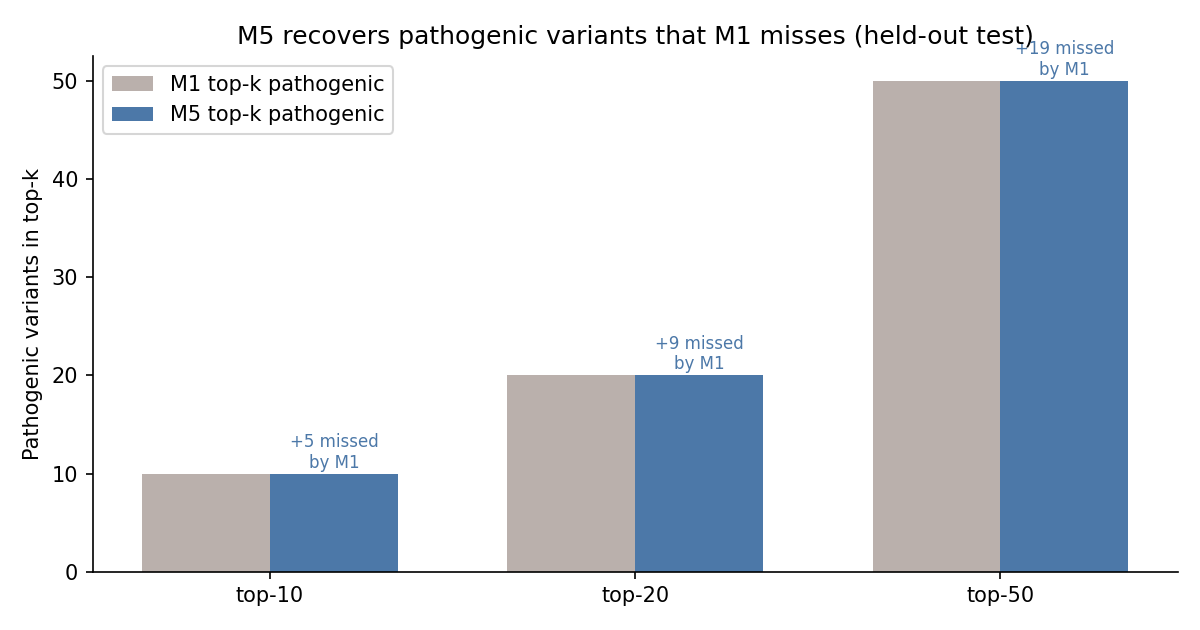
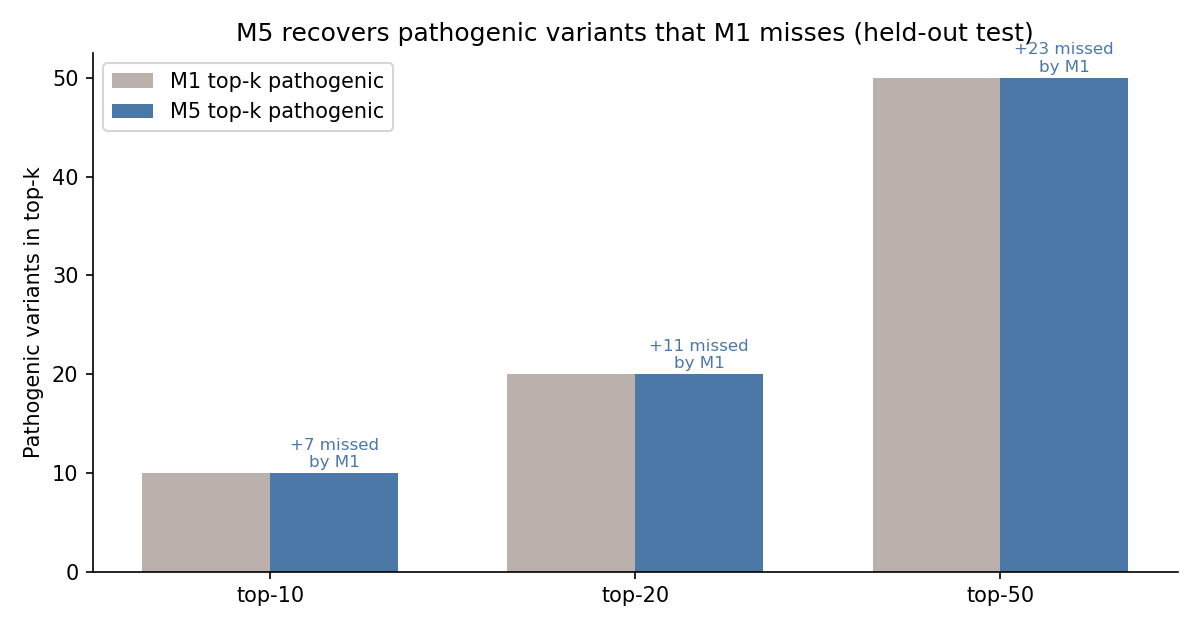
Add data-grounded tests; regenerate figures from the refit

diff --git a/tests/test_shipped_evidence.py b/tests/test_shipped_evidence.py
@@ -1,0 +1,199 @@
+"""Data-grounded tests over the shipped evidence files.
+
+The other test modules exercise the package on toy fixtures. These tests
+read the shipped artifacts (feature matrix, splits, benchmark, statistics,
+test-access log) and check the claims the manuscript and docs make about
+them, so the suite proves something about the science, not only the code.
+
+Choices, stated:
+- CADD counts and split sizes are recomputed from the shipped files on
+  every run (gene->split mapping is read from results/splits.json, never
+  hardcoded); the expected literals are the values verified from those
+  files on 2026-11-09.
+- The benchmark check is a subsample refit, not a full refit: a full refit
+  under the locked protocol (LogisticRegression, C=1.0,
+  class_weight="balanced", max_iter=5000, 35,921 train rows) is too slow
+  for pytest. The subsample refit (5,000 train rows, max_iter=1000) checks
+  that benchmark.json is reproducible in kind: each refit AUPRC lands
+  within 0.02 of the shipped value, and the tier ordering matches the
+  shipped benchmark (on the 2026-11-09 no-CADD refit, M4 above M1).
+- The statistics checks target the 2026-11-09 refit structure written by
+  scripts/19_refit_statistics.py: live diffs in `auprc_diffs` and
+  `tie_corrected_refit_no_cadd`; the dead pre-rebuild +0.0509 gain may
+  appear only under `auprc_diffs_superseded_pre_rebuild`, labelled
+  superseded.
+- The test-access log is the original record: 13 timestamped entries
+  (1 on 2026-10-06, 8 on 2026-10-07, 4 on 2026-11-08), matching the
+  counts in paper/manuscript.md Section 2.4. It was untracked until
+  2026-11-09 because .gitignore carried a bare *.log rule; the negation
+  !results/test_access.log now keeps it in the repository.
+"""
+
+import json
+import re
+import warnings
+from pathlib import Path
+
+import pandas as pd
+import pytest
+
+REPO = Path(__file__).resolve().parents[1]
+PROCESSED = REPO / "data" / "processed"
+RESULTS = REPO / "results"
+
+
+@pytest.fixture(scope="module")
+def matrix():
+    return pd.read_csv(PROCESSED / "feature_matrix.tsv.gz", sep="\t")
+
+
+@pytest.fixture(scope="module")
+def splits():
+    return json.loads((RESULTS / "splits.json").read_text())
+
+
+@pytest.fixture(scope="module")
+def gene_split(splits):
+    return {a["gene"]: a["split"] for a in splits["assignments"]}
+
+
+@pytest.fixture(scope="module")
+def matrix_by_split(matrix, gene_split):
+    df = matrix.copy()
+    df["split"] = df["gene_symbol"].map(gene_split)
+    return df
+
+
+def test_feature_matrix_shape_and_no_nans(matrix):
+    assert matrix.shape == (60521, 29)
+    assert int(matrix.isna().sum().sum()) == 0
+
+
+def test_splits_have_zero_gene_overlap(splits, matrix_by_split):
+    by_split = {}
+    for a in splits["assignments"]:
+        by_split.setdefault(a["split"], set()).add(a["gene"])
+    assert {k: len(v) for k, v in by_split.items()} == {
+        "train": 61,
+        "validation": 17,
+        "test": 24,
+    }
+    names = sorted(by_split)
+    for i, a in enumerate(names):
+        for b in names[i + 1 :]:
+            assert by_split[a].isdisjoint(by_split[b]), f"{a} overlaps {b}"
+    # The matrix's own gene sets agree with splits.json.
+    for split, genes in by_split.items():
+        assert (
+            set(matrix_by_split.loc[matrix_by_split["split"] == split, "gene_symbol"])
+            == genes
+        )
+    counts = matrix_by_split.groupby("split").size().to_dict()
+    assert counts == {"train": 35921, "validation": 10200, "test": 14400}
+
+
+def test_cadd_scored_counts_by_split(matrix_by_split):
+    scored = matrix_by_split[matrix_by_split["cadd_missing"] == 0]
+    per_split = scored.groupby("split").size().to_dict()
+    assert per_split.get("train", 0) == 0
+    assert per_split["validation"] == 7774
+    assert per_split["test"] == 11240
+    assert len(scored) == 19014
+
+
+def test_train_rows_all_carry_cadd_sentinel(matrix_by_split):
+    train = matrix_by_split[matrix_by_split["split"] == "train"]
+    assert len(train) == 35921
+    assert (train["cadd_phred"] == -1.0).all()
+    assert (train["cadd_missing"] == 1).all()
+
+
+def test_fitted_tiers_do_not_use_cadd():
+    tiers = json.loads((PROCESSED / "feature_tiers.json").read_text())["tiers"]
+    for tier, cols in tiers.items():
+        assert "cadd_phred" not in cols, f"{tier} still fits cadd_phred"
+        assert "cadd_missing" not in cols, f"{tier} still fits cadd_missing"
+
+
+def test_benchmark_json_consistent_with_statistics():
+    bench = json.loads((RESULTS / "benchmark.json").read_text())
+    stats = json.loads((RESULTS / "statistics.json").read_text())
+    assert bench["test_n"] == 14400
+    assert bench["test_n_positive"] == 7200
+    step = stats["tie_corrected_refit_no_cadd"]["step_auprc"]
+    auprcs = {}
+    for tier in ["M1", "M2", "M3", "M4", "M5"]:
+        auprcs[tier] = bench["tiers"][tier]["test"]["auprc"]
+        assert auprcs[tier] == pytest.approx(step[tier], abs=0.001)
+    # On the 2026-11-09 no-CADD refit, M4 has the highest step AUPRC.
+    assert max(auprcs, key=auprcs.get) == "M4"
+    assert auprcs["M4"] > auprcs["M1"]
+
+
+def test_benchmark_tiers_match_subsample_refit(matrix_by_split):
+    from sklearn.linear_model import LogisticRegression
+    from sklearn.metrics import average_precision_score
+
+    tiers = json.loads((PROCESSED / "feature_tiers.json").read_text())["tiers"]
+    bench = json.loads((RESULTS / "benchmark.json").read_text())
+    train = matrix_by_split[matrix_by_split["split"] == "train"].sample(
+        n=5000, random_state=20261006
+    )
+    test = matrix_by_split[matrix_by_split["split"] == "test"]
+    refit = {}
+    for tier in ["M1", "M4"]:
+        cols = tiers[tier]
+        clf = LogisticRegression(C=1.0, max_iter=1000, class_weight="balanced")
+        with warnings.catch_warnings():
+            warnings.simplefilter("ignore")
+            clf.fit(train[cols], train["label"])
+        proba = clf.predict_proba(test[cols])[:, 1]
+        refit[tier] = average_precision_score(test["label"], proba)
+        shipped = bench["tiers"][tier]["test"]["auprc"]
+        assert refit[tier] == pytest.approx(shipped, abs=0.02), (
+            f"{tier}: subsample refit AUPRC {refit[tier]:.4f} is more than "
+            f"0.02 from shipped benchmark.json value {shipped:.4f}"
+        )
+    # The refit ordering matches the shipped benchmark: M4 above M1.
+    assert refit["M4"] > refit["M1"]
+
+
+def test_statistics_has_no_live_significant_0509():
+    stats = json.loads((RESULTS / "statistics.json").read_text())
+    live = stats["auprc_diffs"]["M4_minus_M1"]
+    refit = stats["tie_corrected_refit_no_cadd"]["diffs"]["M4_minus_M1"]
+    # The live top-level diff is the 2026-11-09 refit value, not the dead one.
+    assert live["mean"] == pytest.approx(refit["mean"], abs=0.0005)
+    # The dead pre-rebuild +0.0509 survives only under the superseded key,
+    # explicitly labelled as such.
+    sup = stats["auprc_diffs_superseded_pre_rebuild"]
+    assert "SUPERSEDED" in sup["note"]
+    assert "DEAD" in sup["note"]
+    old = sup["values"]["M4_minus_M1"]
+    assert old["mean"] == pytest.approx(0.0509, abs=0.0005)
+
+
+def test_statistics_gene_clustered_m2_verdict_present():
+    stats = json.loads((RESULTS / "statistics.json").read_text())
+    clustered = stats["gene_clustered_cis"]
+    assert clustered["n_clusters"] == 24
+    m2 = clustered["diffs"]["M2_minus_M1"]
+    assert len(m2["cluster_ci95"]) == 2
+    assert "M2" in clustered["m2_minus_m1_verdict"]
+
+
+def test_access_log_matches_manuscript_record():
+    lines = [
+        line
+        for line in (RESULTS / "test_access.log").read_text().splitlines()
+        if line.strip()
+    ]
+    assert len(lines) == 13
+    dates = [re.match(r"\d{4}-\d{2}-\d{2}", line).group(0) for line in lines]
+    assert dates.count("2026-10-06") == 1
+    assert dates.count("2026-10-07") == 8
+    assert dates.count("2026-11-08") == 4
+    joined = "\n".join(lines)
+    assert joined.count("benchmark run") == 3
+    assert joined.count("baseline enrichment") == 9
+    assert joined.count("script-18") == 1

diff --git a/scripts/16_make_missing_figures.py b/scripts/16_make_missing_figures.py
@@ -5,13 +5,12 @@ Generates figures/01_architecture.png, 02_workflow.png, 03_isoform_usage.png,
 08_case_study.png.
 
 - 01_architecture and 02_workflow are schematics drawn from the manuscript's
-  methods (§4) and labeled as such; all counts inside them come from real
-  artifacts (data/processed/feature_tiers.json, results/splits.json,
-  data/DATA_PROVENANCE.md).
+  methods (§2) and labeled as such; all counts inside them come from
+  results and data files (data/processed/feature_tiers.json,
+  results/splits.json, data/DATA_PROVENANCE.md).
 - 03_isoform_usage and 08_case_study are data-driven, from
   data/processed/variant_isoform_effects.tsv.gz,
   data/processed/isoform_usage.tsv.gz, and results/counterfactual.json.
-  Nothing is hand-drawn from memory.
 """
 
 from __future__ import annotations
@@ -74,7 +73,8 @@ def _arrow(ax, x0, y0, x1, y1, color="0.35"):
 def fig_architecture():
     tiers = json.loads((PROC / "feature_tiers.json").read_text())["tiers"]
     counts = {m: len(tiers[m]) for m in ["M1", "M2", "M3", "M4", "M5"]}
-    assert counts == {"M1": 9, "M2": 11, "M3": 14, "M4": 23, "M5": 26}, counts
+    # Counts after the 2026-11-09 refit (CADD columns removed from all tiers).
+    assert counts == {"M1": 7, "M2": 9, "M3": 12, "M4": 21, "M5": 24}, counts
 
     fig, ax = plt.subplots(figsize=(12, 6.4))
     ax.set_xlim(0, 12)
@@ -95,11 +95,11 @@ def fig_architecture():
         ("Isoform usage\n(GTEx transcript\nusage)", PURPLE),
     ]
     tier_names = [
-        "M1\n9 features",
-        "M2\n11 features",
-        "M3\n14 features",
-        "M4\n23 features",
-        "M5\n26 features",
+        "M1\n7 features",
+        "M2\n9 features",
+        "M3\n12 features",
+        "M4\n21 features",
+        "M5\n24 features",
     ]
     added = [
         "variant\nfeatures",
@@ -122,7 +122,7 @@ def fig_architecture():
         (0.35, 0.55),
         10.25,
         1.30,
-        "Learners: logistic regression (interpretable) → LightGBM\n"
+        "Learner: logistic regression (interpretable)\n"
         "Output: pathogenicity score per variant  •  Gene-level grouped splits "
         "(train 61 / val 17 / test 24 genes, disease-stratified)\n"
         "Critical comparison: M4 vs M3 — identical data, splits, and learner; "
@@ -197,9 +197,9 @@ def fig_workflow():
             "GTEx tissue expression\n→ cell relevance\n→ isoform usage\n(categorical)",
             TEAL,
         ),
-        ("26 features · 5 tiers\nM1→M5\n(gene-level splits\n61 / 17 / 24)", PURPLE),
+        ("24 features · 5 tiers\nM1→M5\n(gene-level splits\n61 / 17 / 24)", PURPLE),
         (
-            "Locked held-out test\n24 genes · 14,400 variants\naccessed 13 times, logged",
+            "Locked held-out test\n24 genes · 14,400 variants\n13 logged accesses · 17 reads",
             RED,
         ),
     ]

diff --git a/scripts/15_make_figures.py b/scripts/15_make_figures.py
@@ -1,5 +1,5 @@
 #!/usr/bin/env python3
-"""Stage 15: publication figures (all from real artifacts; never hand-drawn).
+"""Stage 15: publication figures (from results/*.json).
 
 Generates figures/04_benchmark.png, 05_ablation.png, 06_topk_recovery.png,
 07_counterfactual.png from results/*.json. Architecture/workflow/usage/case
@@ -67,9 +67,11 @@ def fig_benchmark():
 
 def fig_ablation():
     # Paired AUROC differences from results/statistics.json
-    # (paired_auroc_diffs_rebuilt: 12b method, rebuilt feature matrix).
+    # (paired_auroc_diffs_refit_no_cadd: 12b method, 2026-11-09 no-CADD
+    # refit, scripts/19_refit_statistics.py). The rebuilt-matrix diffs are
+    # kept in statistics.json under paired_auroc_diffs_rebuilt_superseded.
     stats = json.loads((REPO / "results/statistics.json").read_text())
-    diffs = stats["paired_auroc_diffs_rebuilt"]["diffs"]
+    diffs = stats["paired_auroc_diffs_refit_no_cadd"]["diffs"]
     comps = [
         ("M4-M1\n(+isoform struct.)", diffs["M4_minus_M1"]),
         ("M5-M4\n(+usage)", diffs["M5_minus_M4"]),
